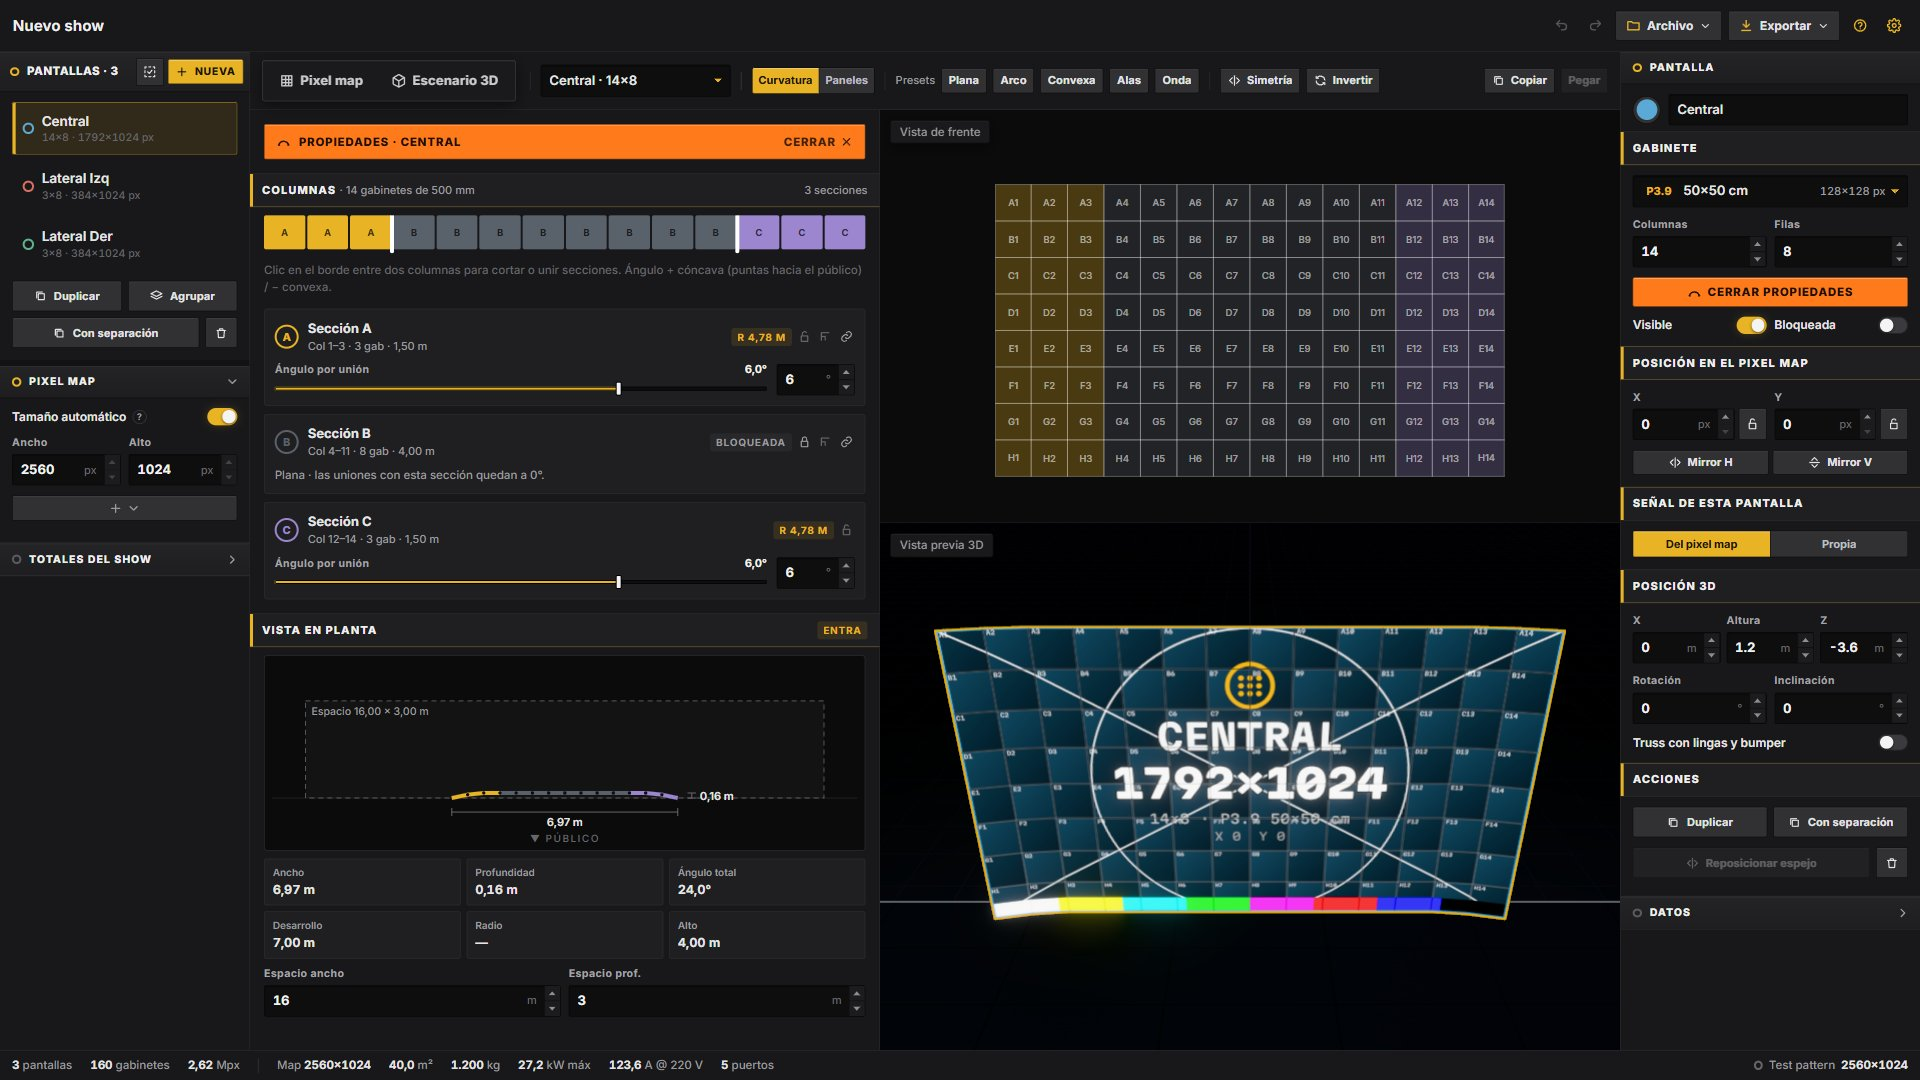
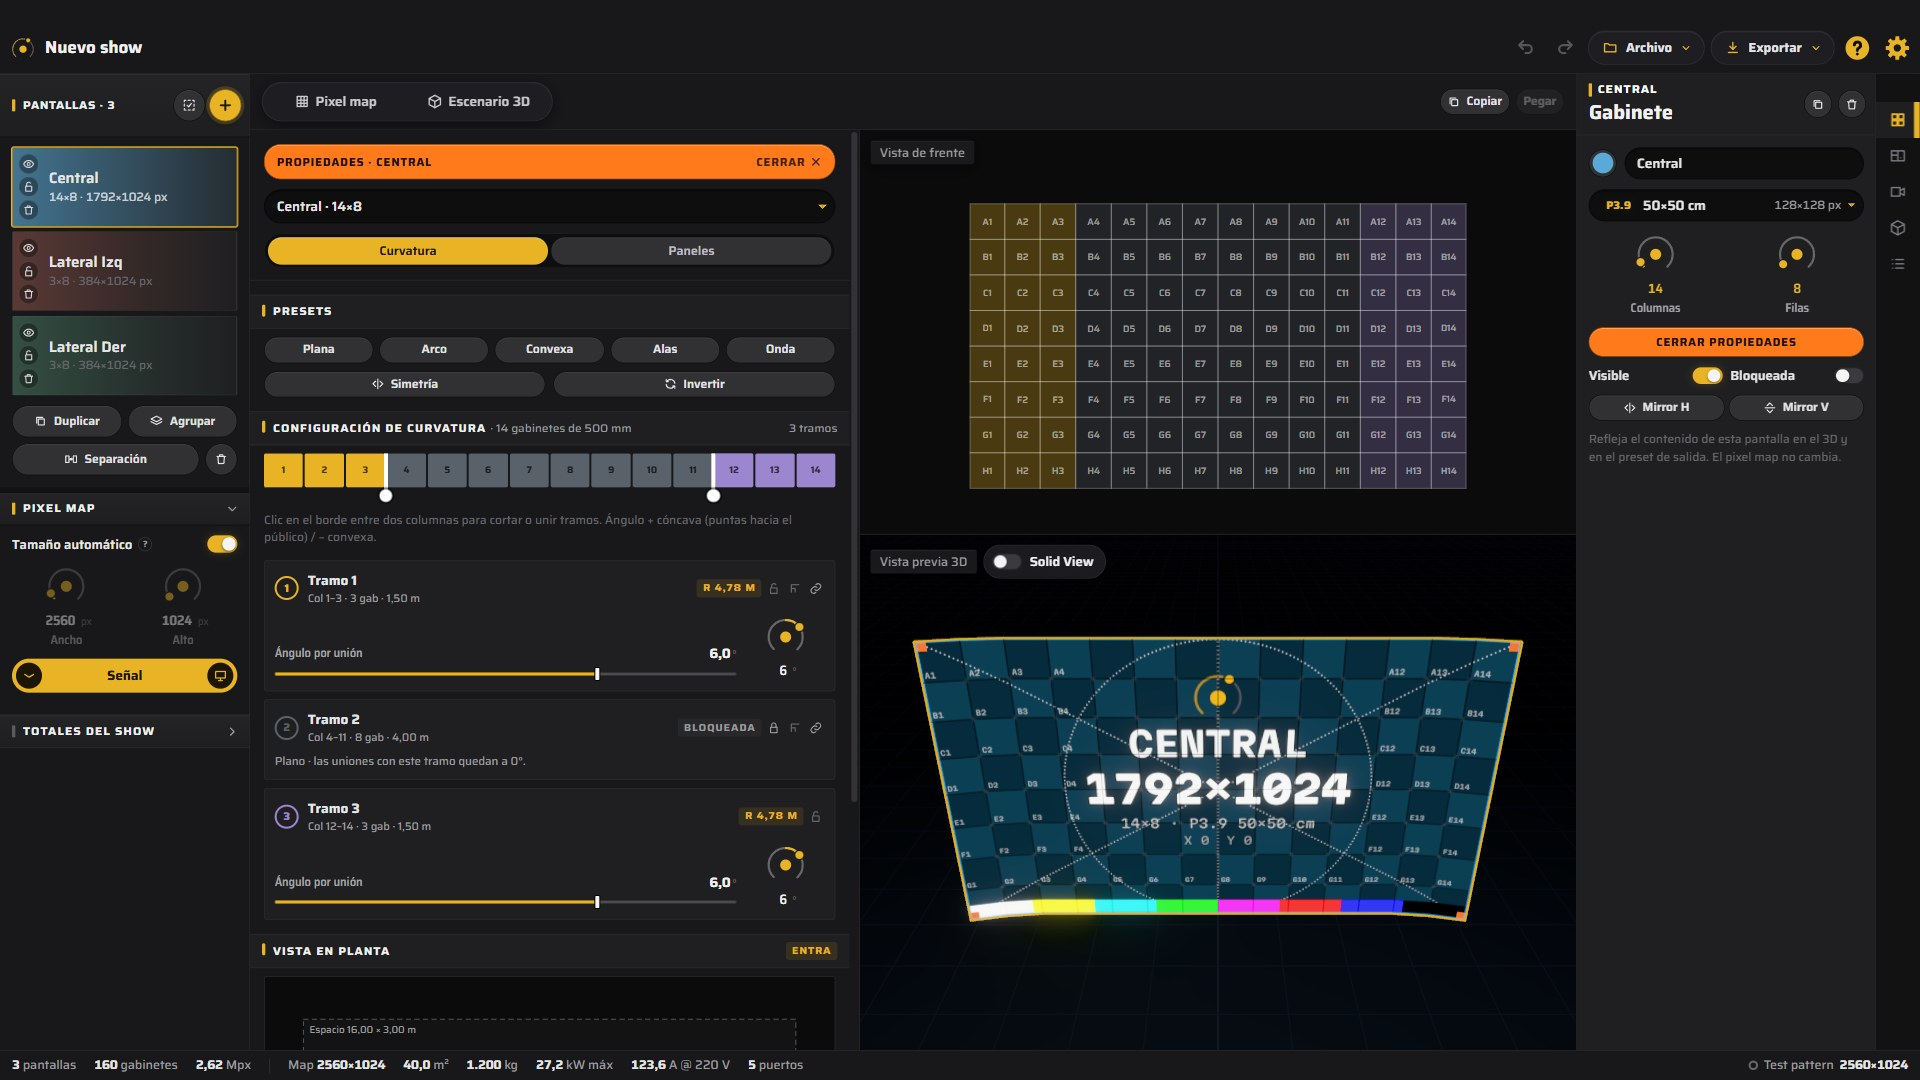
Página de LED LAB: capturas de la 0.4.7, ícono y textos nuevos

diff --git a/README.md b/README.md
@@ -1,8 +1,8 @@
 <p align="center">
-  <img src="icon.png" width="96" alt="LED Studio">
+  <img src="icon.png" width="96" alt="LED LAB">
 </p>
 
-<h1 align="center">LED STUDIO </h1>
+<h1 align="center">LED LAB <sub>by 360 LAB STUDIO</sub></h1>
 
 <p align="center">
   Planificador de pantallas LED y diseño básico de stages para shows en vivo.<br>
@@ -10,11 +10,11 @@
 </p>
 
 <p align="center">
-  <a href="https://github.com/garciamauro-ai/led-studio-releases/releases/latest"><b>Descargar para Windows</b></a> ·
-  <a href="https://github.com/garciamauro-ai/led-studio-releases/releases">Novedades</a>
+  <a href="https://github.com/garciamauro-ai/led-lab-releases/releases/latest"><b>Descargar para Windows</b></a> ·
+  <a href="https://github.com/garciamauro-ai/led-lab-releases/releases">Novedades</a>
 </p>
 
-![Escenario 3D de LED Studio](img/3d.jpg)
+![Escenario 3D de LED LAB](img/3d.jpg)
 
 ---
 
@@ -22,24 +22,34 @@
 
 ### Pixel map
 Armás el pixel map con gabinetes reales (pitch, píxeles, medidas, peso y consumo). Movés, dimensionás y
-recortás pantallas al píxel; el lienzo se adapta solo a la disposición. Las pantallas se ordenan en grupos con color
-propio y se duplican en fila con la separación que pidas.
+recortás pantallas al píxel. Las pantallas se ordenan en grupos con color propio y se duplican en fila con la separación
+que pidas. También podés importar un preset de salida (XML de Advanced Output): cada slice se vuelve una pantalla en su lugar.
 
 ![Pixel map](img/pixelmap.jpg)
 
+### Proyecto asistido
+Arrancás con el stock de gabinetes que tenés: qué modelos y cuántos de cada uno, o los m² que vas a cubrir. A medida que
+armás pantallas, una barra muestra lo que queda y avisa si te pasaste.
+
 ### Escenario 3D
-Ves el show como va a quedar: pantallas con curvatura, rig de truss con lingas y motores, stage con lengua, proscenio
-y risers, PA, sidefill, outfill, FX y público. Vistas tipo Blender, vista técnica y un modo show con recorridos de cámara.
+Ves el show como va a quedar: pantallas con curvatura, stage con lengua, proscenio y risers, PA, sidefill, outfill, FX y
+público. Vistas tipo Blender, vista técnica y un modo show con recorridos de cámara que se exporta como video.
+
+### Estructuras y rigging
+Escenarios Layher, StageDex, tarimas o a medida, con torres y techos. Rig rápido sobre torres o colgado, Truss System
+tramo por tramo (con esquinas y T) y truss circular, con lista de materiales y avisos de carga. Los valores son aproximados,
+sacados de las fichas de los fabricantes: todo montaje lo tiene que calcular y aprobar un ingeniero.
 
 ### Propiedades de cada pantalla
 Arriba la pantalla de frente y abajo en 3D. La curvatura se arma por secciones, con quiebres de hasta 90°.
-En el modo Paneles sacás o devolvés gabinetes tocándolos.
+En el modo Paneles sacás o devolvés gabinetes tocándolos, o le das forma (hexágono, óvalo, rombo, triángulo).
 
 ![Propiedades de una pantalla](img/propiedades.jpg)
 
 ### Luces
-Grupos de equipos (beams, spots, wash, strobes, pixel bars) colgados de cualquier truss y cara, o apoyados en el piso.
-Se combinan entre sí y se manejan como una consola: color, efectos, BPM, tap y haze.
+Grupos de equipos (beams, spots, wash, strobes, pixel bars) colgados de cualquier truss y cara, o apoyados en el piso,
+repartidos parejo, desde las puntas o desde el centro. Se combinan entre sí y se manejan como una consola: color, efectos,
+BPM, tap, seguir un punto y haze.
 
 ![Luces](img/luces.jpg)
 
@@ -48,12 +58,12 @@ La señal de tu software de video entra por SpoutCam o captura de pantalla y se 
 tener su propia fuente (otra salida, una cámara o un loop) con encuadre Fit / Fill / Stretch.
 
 ### Exportar
-Preset de salida (XML), test pattern en PNG, modelo 3D (GLB) para Blender / Unreal / TouchDesigner,
-captura del 3D y planilla CSV con gabinetes, peso, consumo y puertos.
+Preset de salida (XML), test pattern en PNG, modelo 3D (GLB) para Blender / Unreal / TouchDesigner, video del modo show,
+captura del 3D, lista de materiales y planilla CSV con gabinetes, peso, consumo y puertos.
 
 ## Instalar
 
-1. Bajá **LED-Studio-Setup** desde la [página de descargas](https://github.com/garciamauro-ai/led-studio-releases/releases/latest).
+1. Bajá **LED-LAB-Setup** desde la [página de descargas](https://github.com/garciamauro-ai/led-lab-releases/releases/latest).
 2. Doble clic e instalar. La primera vez Windows puede avisar que no reconoce la app: **Más información → Ejecutar igual**.
 3. Listo: la app se actualiza sola. Cuando hay una versión nueva avisa y pregunta si actualizar. También se puede
    buscar a mano en **Opciones › Versión**.
@@ -62,10 +72,10 @@ captura del 3D y planilla CSV con gabinetes, peso, consumo y puertos.
 
 ## Primeros pasos
 
-1. **Nuevo proyecto** y ponele nombre.
-2. En **Pantallas › Nueva** elegís gabinete, columnas y filas. Acomodalas en el pixel map y en el escenario 3D.
-3. En **Escena** armás el venue (stage, truss, PA) y en **Luces** cargás los equipos.
-4. **Exportar** lo que necesites: preset de salida, test pattern, modelo 3D, captura o planilla.
+1. **Nuevo proyecto** y ponele nombre (o **Nuevo proyecto asistido**, con tu stock de gabinetes).
+2. En **Pantallas › +** elegís gabinete, columnas y filas. Acomodalas en el pixel map y en el escenario 3D.
+3. En **Escena** armás el venue (escenario, rigging, PA) y en **Luces** cargás los equipos.
+4. **Exportar** lo que necesites: preset de salida, test pattern, modelo 3D, video, captura o planilla.
 
 Todo lo demás está en la ayuda de la app: botón **?** arriba a la derecha o tecla **F1**.
 
